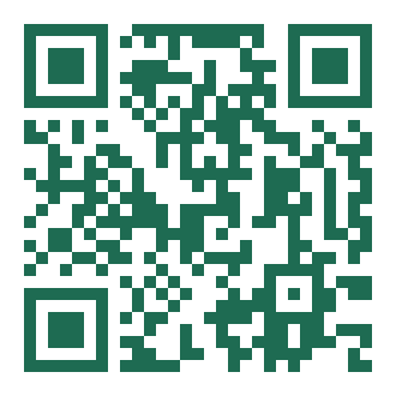
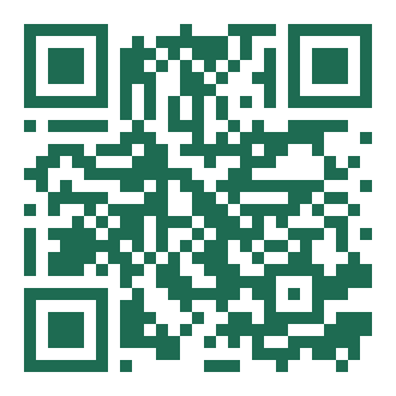
버튼이 조용히 죽지 않도록 진단 장치 추가
- 상단 공유·설치 버튼을 HTML 인라인 onclick 으로 직결
  (JS 초기화가 실패해도 눌리고, 함수가 없으면 그 사실을 화면에 표시)
- 전역 error / unhandledrejection 을 빨간 배너로 화면에 노출
- 공유 시트에 빌드 버전 표시 — 캐시된 옛 버전인지 식별용
- 공유 URL ?v=3

Claude-Session: https://claude.ai/code/session_011JJdQ9E5PS4QZK9SKaoZht

diff --git a/index.html b/index.html
@@ -15,7 +15,7 @@
 <meta property="og:image" content="https://hochan3873.github.io/routine/og.png">
 <meta property="og:image:width" content="1200">
 <meta property="og:image:height" content="630">
-<meta property="og:url" content="https://hochan3873.github.io/routine/?v=2">
+<meta property="og:url" content="https://hochan3873.github.io/routine/?v=3">
 <meta name="twitter:card" content="summary_large_image">
 <link rel="manifest" href="manifest.json">
 <link rel="apple-touch-icon" href="icon-192.png">
@@ -34,6 +34,33 @@
 </head>
 <body>
[1 lines of base64/hex data omitted]
+<script>
+/* ═══ 진단용: 무엇이 잘못됐는지 화면에 직접 보여준다 ═══ */
+window.__BUILD__ = '09/26 16:06';
+(function(){
+  var shown = 0;
+  function banner(msg){
+    if(shown > 2) return; shown++;
+    try{
+      var d = document.createElement('div');
+      d.style.cssText = 'position:fixed;left:0;right:0;top:0;z-index:9999;background:#A33A29;color:#fff;'
+        + 'font:12px/1.5 system-ui,sans-serif;padding:10px 12px;white-space:pre-wrap;word-break:break-all;'
+        + 'box-shadow:0 2px 12px rgba(0,0,0,.3)';
+      d.textContent = '⚠ 오류 (' + window.__BUILD__ + ')\n' + msg;
+      d.onclick = function(){ d.remove(); };
+      (document.body || document.documentElement).appendChild(d);
+    }catch(e){}
+  }
+  window.__banner = banner;
+  window.addEventListener('error', function(e){
+    banner((e.message || '알 수 없는 오류') + '\n' + (e.filename||'') + ' : ' + (e.lineno||'?') + '행');
+  });
+  window.addEventListener('unhandledrejection', function(e){
+    var r = e.reason;
+    banner('처리되지 않은 오류: ' + ((r && (r.message || r)) || '?'));
+  });
+})();
+</script>
 <style>
 :root{
   --bg:#F4F2ED; --surface:#FFFFFF; --surface2:#FAF8F4; --line:#E4DFD6; --line2:#D6D0C4;
@@ -266,11 +293,11 @@ table.tbl td.n{font-family:'Archivo'; font-weight:700; font-variant-numeric:tabu
   <header class="top">
     <div class="brand">술쟁이호찬의 <em>건강헬린이</em> 루틴북</div>
     <div class="topacts">
-      <button class="iconbtn" id="topShare" title="공유하기" aria-label="공유하기">
+      <button class="iconbtn" id="topShare" title="공유하기" aria-label="공유하기" onclick="if(window.doShare){doShare()}else{window.__banner&amp;&amp;__banner('공유 기능이 로드되지 않았습니다')}">
         <svg viewBox="0 0 24 24"><circle cx="18" cy="5.5" r="2.6"/><circle cx="6" cy="12" r="2.6"/><circle cx="18" cy="18.5" r="2.6"/><path d="M8.3 10.8 15.7 6.8M8.3 13.2l7.4 4"/></svg>
         <span>공유</span>
       </button>
-      <button class="iconbtn accent" id="topInstall" title="앱으로 설치" aria-label="앱으로 설치">
+      <button class="iconbtn accent" id="topInstall" title="앱으로 설치" aria-label="앱으로 설치" onclick="if(window.doInstall){doInstall()}else{window.__banner&amp;&amp;__banner('설치 기능이 로드되지 않았습니다')}">
         <svg viewBox="0 0 24 24"><path d="M12 3.5v11M12 14.5l-4-4M12 14.5l4-4M4.5 16.5v2a2 2 0 0 0 2 2h11a2 2 0 0 0 2-2v-2"/></svg>
         <span>설치</span>
       </button>
@@ -534,7 +561,7 @@ table.tbl td.n{font-family:'Archivo'; font-weight:700; font-variant-numeric:tabu
       <div class="sharebox">
         <img id="qrImg" src="qr.png" alt="이 페이지 주소 QR 코드" width="132" height="132">
         <div class="shareside">
-          <code class="urltxt" id="urlTxt">hochan3873.github.io/routine/?v=2</code>
+          <code class="urltxt" id="urlTxt">hochan3873.github.io/routine/?v=3</code>
           <div class="row" style="gap:7px; margin-top:9px">
             <button class="btn sm primary" id="shShare">공유하기</button>
             <button class="btn sm" id="shCopy">링크 복사</button>
@@ -1081,7 +1108,7 @@ document.getElementById('calNext').onclick=()=>{ calMonth.setMonth(calMonth.getM
 document.getElementById('markDrink').onclick=()=>{ ST.drink[today()]=true; save(); toast('기록했습니다 — 내일은 무게 20% 낮추세요'); };
 
 /* ═══════════════ 링크 공유 + 앱 설치 ═══════════════ */
-const SHARE_URL = 'https://hochan3873.github.io/routine/?v=2';
+const SHARE_URL = 'https://hochan3873.github.io/routine/?v=3';
 
 function openSheet(title, html){
   document.getElementById('sheetTitle').textContent = title;
@@ -1137,7 +1164,8 @@ function doShare(){
     + '<div style="text-align:center; margin-top:13px">'
     +   '<img src="qr.png" alt="주소 QR 코드" width="128" height="128" style="border-radius:10px; background:#fff; padding:6px">'
     +   '<p class="note" style="margin:6px 0 0">다른 폰 카메라로 찍어도 열립니다</p>'
-    + '</div>');
+    + '</div>'
+    + '<p class="note" style="margin:10px 0 0; text-align:center; opacity:.65">버전 ' + (window.__BUILD__||'?') + '</p>');
 
   const msg = document.getElementById('shsMsg');
   const nat = document.getElementById('shsNative');
@@ -1240,12 +1268,9 @@ async function doInstall(){
 }
 
 (function initTopBar(){
-  const s = document.getElementById('topShare'), i = document.getElementById('topInstall');
-  if(s) s.onclick = doShare;
-  if(i){
-    if(isStandalone()) i.hidden = true;     /* 이미 앱으로 실행 중 */
-    else i.onclick = doInstall;
-  }
+  const i = document.getElementById('topInstall');
+  /* 공유 버튼은 HTML의 onclick 으로 이미 연결돼 있다 (JS가 죽어도 동작) */
+  if(i && isStandalone()) i.hidden = true;   /* 이미 앱으로 실행 중 */
 })();
 
 (function initShare(){
